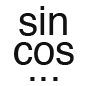
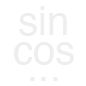
Colored special keyboard keys

diff --git a/main/templates/exercise.html b/main/templates/exercise.html
@@ -56,7 +56,7 @@
             <div class="key col-xs-4 symbol" data-action="write" data-content="7">7</div>
             <div class="key col-xs-4 symbol" data-action="write" data-content="8">8</div>
             <div class="key col-xs-4 symbol" data-action="write" data-content="9">9</div>
-            <div class="key col-xs-4 letter" data-action="write" data-content=",">,</div>
+            <div class="key col-xs-4 special2" data-action="keyboard-hide"><i class="material-icons">keyboard_hide</i></div>
             <div class="key col-xs-4 symbol" data-action="write" data-content="0">0</div>
             <div class="key col-xs-4 letter" data-action="write" data-content=".">.</div>
             {% if flavour != "mobile" %}
@@ -89,12 +89,12 @@
             <div class="key col-xs-4 letter" data-action="write" data-content="[">]</div>
             <div class="key col-xs-4 letter" data-action="cmd" data-content="\pi">&pi;</div>
             <div class="key col-xs-4 letter" data-action="write" data-stepback="1" data-content="e^{}">e</div>
-            <div class="key col-xs-4 letter" data-action="keystroke" data-content="Up"><i class="material-icons">keyboard_arrow_up</i></div>
-            <div class="key col-xs-4 letter" data-action="keystroke" data-content="Left"><i class="material-icons">keyboard_arrow_left</i></div>
-            <div class="key col-xs-4 letter" data-action="keystroke" data-content="Right"><i class="material-icons">keyboard_arrow_right</i></div>
-            <div class="key col-xs-4 letter" data-action="keystroke" data-content="Down"><i class="material-icons">keyboard_arrow_down</i></div>
-            <div class="key col-xs-4 letter" data-action="switch-keys" data-content="trig"><img src="{% static 'img/sincoskey.png' %}"/></div>
-            <div class="key col-xs-4 letter" data-action="keystroke" data-content="Backspace"><i class="material-icons">backspace</i></div>
+            <div class="key col-xs-4 special" data-action="keystroke" data-content="Up"><i class="material-icons">keyboard_arrow_up</i></div>
+            <div class="key col-xs-4 special" data-action="keystroke" data-content="Left"><i class="material-icons">keyboard_arrow_left</i></div>
+            <div class="key col-xs-4 special" data-action="keystroke" data-content="Right"><i class="material-icons">keyboard_arrow_right</i></div>
+            <div class="key col-xs-4 special" data-action="keystroke" data-content="Down"><i class="material-icons">keyboard_arrow_down</i></div>
+            <div class="key col-xs-4 special2" data-action="switch-keys" data-content="trig"><img src="{% static 'img/sincoskey.png' %}"/></div>
+            <div class="key col-xs-4 special2" data-action="keystroke" data-content="Backspace"><i class="material-icons">backspace</i></div>
             {% if flavour != "mobile" %}
           </div>
         </div>
@@ -117,9 +117,9 @@
             <div class="key col-xs-4 letter" data-action="write" data-stepback="1" data-content="\arccot()">acot</div>
             <div class="key col-xs-4 letter" data-action="write" data-stepback="1" data-content="\arcsec()">asec</div>
             <div class="key col-xs-4 letter" data-action="write" data-stepback="1" data-content="\arccsc()">acsc</div>
-            <div class="key col-xs-4 letter" data-action="switch-keys" data-content="std">123</div>
+            <div class="key col-xs-4 special2" data-action="switch-keys" data-content="std">123</div>
             <div class="key col-xs-4 letter" data-action="write" data-content="x">x</div>
-            <div class="key col-xs-4 letter" data-action="keystroke" data-content="Backspace"><i class="material-icons">backspace</i></div>
+            <div class="key col-xs-4 special2" data-action="keystroke" data-content="Backspace"><i class="material-icons">backspace</i></div>
             {% if flavour != "mobile" %}
           </div>
         </div>

diff --git a/main/static/css/style.css b/main/static/css/style.css
@@ -303,6 +303,16 @@ h6 {
   display: none;
 }
 
+#keyboard .key.col-xs-4.special2 {
+    background: #5482a9 !important;
+    color: white !important;
+}
+
+#keyboard .key.col-xs-4.special {
+    background: gray !important;
+    color: white !important;
+}
+
 #mathquill {
   padding: 5px;
   margin-top: 20px;
